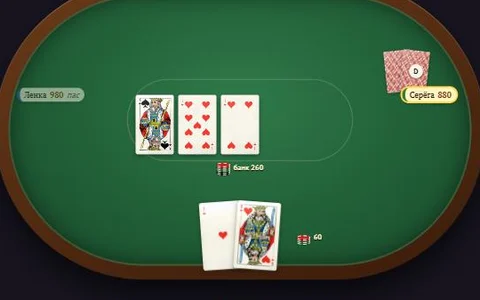
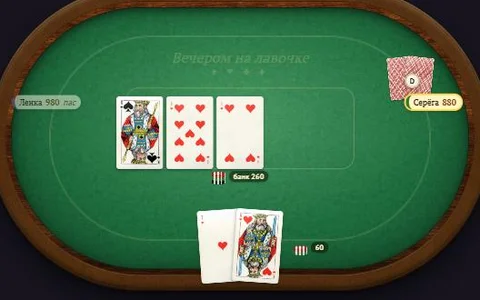
Холдем: плоский стол в фактурах — сукно с ворсом, кожаный валик, ореховый кант
Сукно, кожа и дерево — те же фотофактуры, что в 3D (сукно — ворс бархата,
перекрашенный в зелёный). Тени по Material: стол приподнят над полом, валик
круглый (блик сверху, тень снизу). На сукне печать: линия ставок, рамка общих
карт, «Вечером на лавочке». Фишки с полосками по ребру, ставки и банк —
в плашках, баттон объёмный. Превью карточки переснято.

diff --git a/lavochka/src/games/holdem/holdem.css b/lavochka/src/games/holdem/holdem.css
@@ -4,27 +4,51 @@
   --panel-ink: #2a1a0a;
   --table-bg: radial-gradient(ellipse at 50% 30%, rgba(255, 230, 160, 0.16), transparent 60%), linear-gradient(180deg, #1a1210, #0e0a08);
 }
-.hd-floor { position: absolute; inset: 0; }
-.hd-table { position: absolute; left: 40px; top: 40px; width: 920px; height: 560px; border-radius: 280px / 280px;
-  background: linear-gradient(160deg, #6a3a1a, #3a1c0a); box-shadow: 0 30px 50px rgba(0, 0, 0, 0.6), inset 0 2px 0 rgba(255, 220, 160, 0.25); }
-.hd-felt { position: absolute; inset: 26px; border-radius: 260px / 260px;
-  background: radial-gradient(ellipse at 50% 40%, #2f7a4a, #1f5a34 65%, #174a2a);
-  box-shadow: inset 0 0 40px rgba(0, 0, 0, 0.55), inset 0 0 0 3px rgba(255, 230, 160, 0.25); }
-.hd-felt::after { content: ''; position: absolute; left: 50%; top: 50%; width: 420px; height: 150px; transform: translate(-50%, -62%); border-radius: 80px; border: 2px solid rgba(255, 230, 160, 0.18); }
+/* Плоский стол — те же материалы, что в 3D: сукно с ворсом, кожаный валик, лакированный ореховый кант.
+ * Тени — как в Material: стол «приподнят» над полом (ближняя резкая + дальняя мягкая), лампа сверху. */
+.hd-floor { position: absolute; inset: 0; background: radial-gradient(ellipse 60% 55% at 50% 45%, rgba(255, 214, 150, 0.1), transparent 70%); }
+.hd-table { position: absolute; left: 40px; top: 40px; width: 920px; height: 560px; border-radius: 280px;
+  background: radial-gradient(ellipse 70% 60% at 50% 35%, rgba(255, 220, 170, 0.16), transparent 70%), url(/tex/holdem/leather2d.webp) center / 300px, #4a2814;
+  box-shadow: 0 4px 8px rgba(0, 0, 0, 0.45), 0 24px 48px rgba(0, 0, 0, 0.55),
+    inset 0 3px 2px rgba(255, 228, 190, 0.28), inset 0 -4px 6px rgba(0, 0, 0, 0.5), inset 0 0 0 1px rgba(0, 0, 0, 0.6); }
+/* кант: орех по краю (border-box), внутри — сукно (padding-box) */
+.hd-felt { position: absolute; inset: 30px; border-radius: 250px; border: 10px solid transparent;
+  background:
+    radial-gradient(ellipse 62% 58% at 50% 42%, rgba(255, 236, 190, 0.14), transparent 75%) padding-box,
+    url(/tex/holdem/felt2d.webp) center / 260px padding-box,
+    radial-gradient(ellipse at 50% 42%, #2c8a52, #1d6a3c 60%, #114628) padding-box,
+    linear-gradient(180deg, rgba(255, 220, 170, 0.35), rgba(0, 0, 0, 0.35)) border-box,
+    url(/tex/holdem/walnut2d.webp) center / 220px border-box;
+  background-blend-mode: normal, overlay, normal, overlay, normal;
+  box-shadow: 0 0 0 1px rgba(0, 0, 0, 0.55), 0 1px 0 1px rgba(255, 228, 190, 0.18),
+    inset 0 0 0 1px rgba(0, 0, 0, 0.5), inset 0 6px 14px rgba(0, 0, 0, 0.45), inset 0 0 50px rgba(0, 0, 0, 0.4); }
+/* печать на сукне: линия ставок, рамка общих карт, надпись */
+.hd-felt::before { content: ''; position: absolute; inset: 52px 70px; border-radius: 200px;
+  border: 3px double rgba(255, 226, 150, 0.22); pointer-events: none; }
+.hd-felt::after { content: ''; position: absolute; left: 50%; top: 50%; width: 420px; height: 150px; transform: translate(-50%, -62%);
+  border-radius: 24px; border: 2px solid rgba(255, 226, 150, 0.2); box-sizing: border-box; pointer-events: none; }
+.hd-print { position: absolute; left: 0; right: 0; top: 78px; text-align: center; pointer-events: none;
+  font: italic 26px/1 'PT Serif', Georgia, serif; color: rgba(255, 226, 150, 0.2); letter-spacing: 0.02em; }
+.hd-print small { display: block; margin-top: 6px; font: 16px/1 Georgia, serif; letter-spacing: 0.5em; }
+/* валик кожаный и круглый: блик по верху, тень по низу */
+.hd-table::before { content: ''; position: absolute; inset: 4px; border-radius: 276px; pointer-events: none;
+  box-shadow: inset 0 10px 12px -8px rgba(255, 232, 200, 0.3), inset 0 -10px 14px -8px rgba(0, 0, 0, 0.55); }
 .hd-plates { position: absolute; inset: 0; }
 .hd-plate { transform: translate(-50%, 0); }
 .hd-plate.hd-dim { opacity: 0.55; }
 .hd-bet, .hd-pot { position: absolute; transform: translate(-50%, -50%); display: flex; align-items: center; gap: 6px; }
-.hd-bet span, .hd-pot span { font: 700 14px 'PT Sans', Arial, sans-serif; color: #fff4c2; text-shadow: 0 1px 2px #000; white-space: nowrap; }
+.hd-bet span, .hd-pot span { font: 700 14px 'PT Sans', Arial, sans-serif; color: #fff4c2; white-space: nowrap;
+  padding: 1px 8px; border-radius: 10px; background: rgba(10, 6, 2, 0.5); box-shadow: 0 1px 3px rgba(0, 0, 0, 0.35); }
 .hd-stack { position: relative; width: 26px; height: 30px; }
 .hd-chip { position: absolute; left: 0; bottom: calc(var(--i) * 3px); width: 26px; height: 9px; border-radius: 50%;
-  border: 2px dashed rgba(255, 255, 255, 0.85); box-shadow: 0 1px 0 rgba(0, 0, 0, 0.5); }
-.hd-chip.r { background: #c0281e; }
-.hd-chip.g { background: #2a8a3e; }
-.hd-chip.k { background: #1a1a1a; }
-.hd-chip.p { background: #6a2a9a; }
-.hd-button { position: absolute; width: 26px; height: 26px; transform: translate(-50%, -50%); border-radius: 50%; background: #f8f4e8; color: #2a1a0a;
-  font: 700 14px/26px 'PT Sans', Arial, sans-serif; text-align: center; box-shadow: 0 2px 4px rgba(0, 0, 0, 0.5); }
+  background: radial-gradient(ellipse 50% 45% at 50% 40%, rgba(255, 255, 255, 0.28), transparent 70%), repeating-linear-gradient(90deg, var(--c) 0 4px, #f4efe4 4px 6.5px);
+  box-shadow: inset 0 0 0 1px rgba(0, 0, 0, 0.35), 0 1px 1px rgba(0, 0, 0, 0.55); }
+.hd-chip.r { --c: #c0281e; }
+.hd-chip.g { --c: #2a8a3e; }
+.hd-chip.k { --c: #1a1a1a; }
+.hd-chip.p { --c: #6a2a9a; }
+.hd-button { position: absolute; width: 26px; height: 26px; transform: translate(-50%, -50%); border-radius: 50%; background: radial-gradient(circle at 40% 35%, #fffdf6, #e6dfcc); color: #2a1a0a;
+  font: 700 14px/26px 'PT Sans', Arial, sans-serif; text-align: center; box-shadow: inset 0 0 0 2px #c9b98f, 0 1px 2px rgba(0, 0, 0, 0.5), 0 4px 8px rgba(0, 0, 0, 0.35); }
 .hd-blinds { position: absolute; left: 50%; top: 6px; transform: translate(-50%, 0); color: #e8d6b0; font: 13px 'PT Sans', Arial, sans-serif; opacity: 0.8; }
 .hd-controls { display: flex; flex-direction: column; gap: 8px; }
 .hd-btns { display: flex; flex-direction: column; gap: 6px; }

diff --git a/lavochka/src/games/holdem/view.ts b/lavochka/src/games/holdem/view.ts
@@ -78,7 +78,7 @@ class HoldemView implements GameView<View, Event> {
   mount(root: HTMLElement, ctx: ViewCtx) {
     this.ctx = ctx;
     preloadDeck(settings.deck);
-    this.cs = new CardStage(root, W, H, 'hd-wrap', '<div class="hd-floor"></div><div class="hd-table"><div class="hd-felt"></div></div>');
+    this.cs = new CardStage(root, W, H, 'hd-wrap', '<div class="hd-floor"></div><div class="hd-table"><div class="hd-felt"><div class="hd-print">Вечером на лавочке<small>♠ ♥ ♣ ♦</small></div></div></div>');
     this.cs.over.innerHTML = '<div class="hd-plates"></div><div class="cs-banner" hidden></div>';
     this.plates = this.cs.over.querySelector('.hd-plates') as HTMLElement;
     this.banner = this.cs.over.querySelector('.cs-banner') as HTMLElement;
